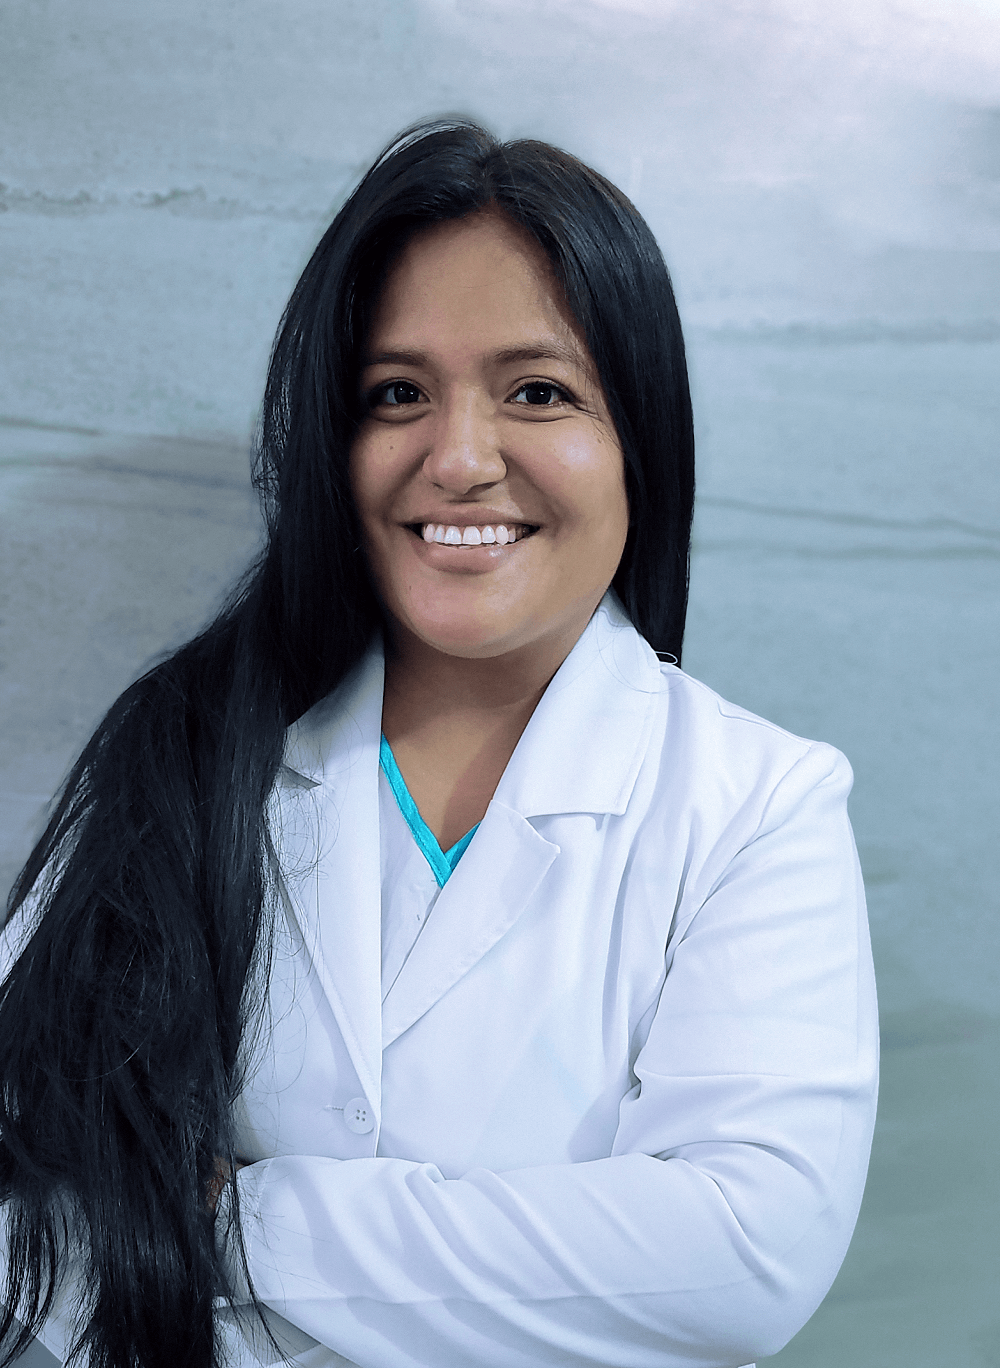
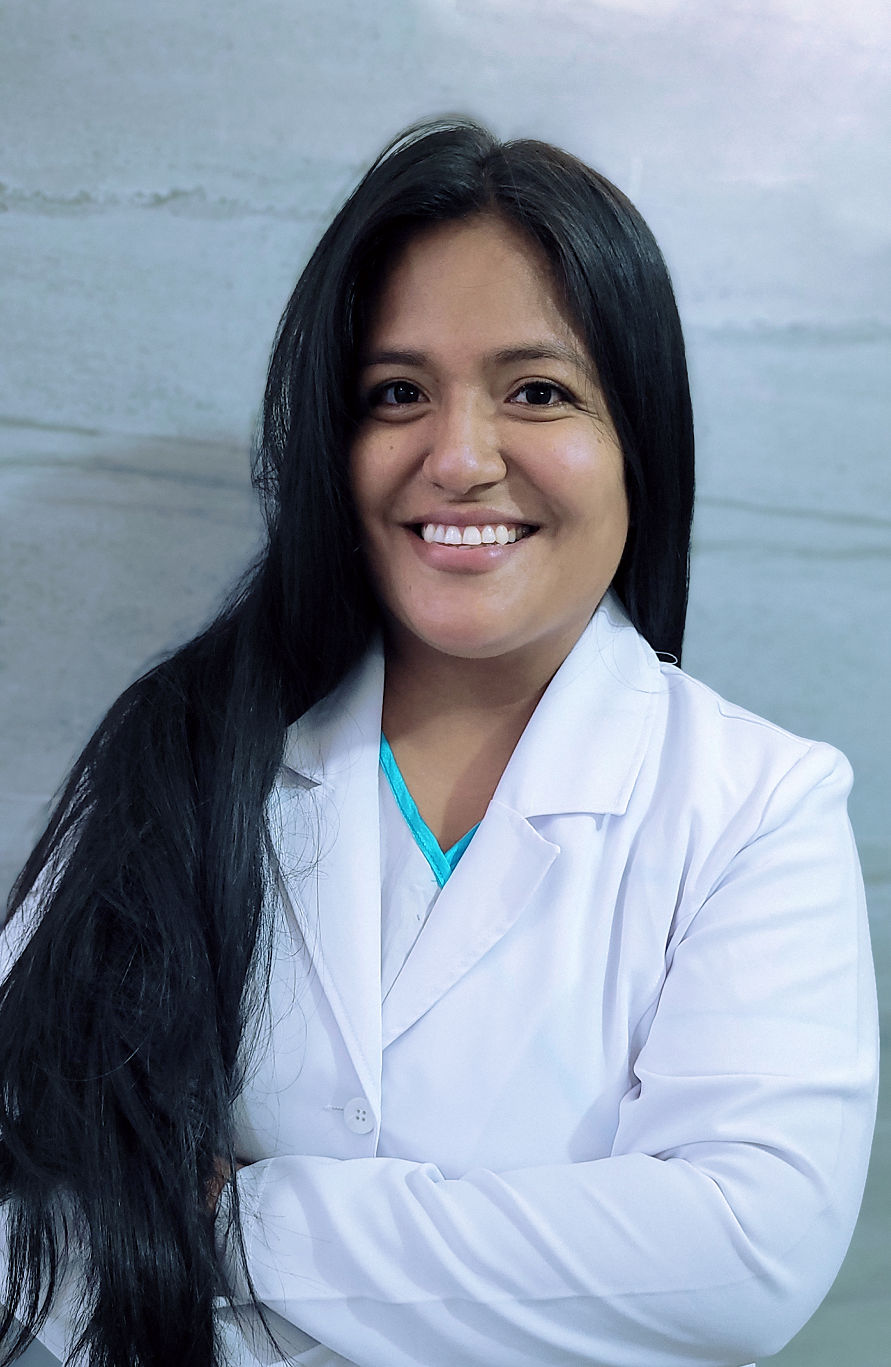
added adaptation to main section

diff --git a/style/style.css b/style/style.css
@@ -1149,3 +1149,123 @@ footer {
     font-size: 26px;
   }
 }
+
+/*Inicia cambio de estilo de scroll bar*/
+::-webkit-scrollbar{
+  background: #d4d4d4;
+  width: 8px;
+height: 8px;
+}
+::-webkit-scrollbar-track {
+background: #e1e1e1;
+border-radius: 4px;
+}
+::-webkit-scrollbar-thumb:hover {
+background: #b3b3b3;
+box-shadow: 0 0 2px 1px rgba(0, 0, 0, 0.2);
+}
+::-webkit-scrollbar-thumb:active {
+background-color: #999999;
+}
+::-webkit-scrollbar-thumb {
+background: #ccc;
+border-radius: 4px;
+}
+/*Finaliza cambio de estilo scroll bar*/
+/*CAROUSEL al contenedor padre se le deja el tamaño del 100%*/
+.carousel-wrapper{
+width:100%;
+height: 100%;
+margin-top: 5%;
+margin-bottom: 5%;
+}
+/*en la clase del carousel se realiza independiente para que ahi pueda agregar el escroll X*/
+.carousel{
+overflow-x:scroll;
+}
+/*el texto ya esta centrado ya que se le dio el ancho del 100% al contenedor padre*/
+.carousel-wrapper p{  
+color: #134A73; 
+font-family:sans-serif;
+font-size:20px;
+text-align:center;   
+margin-top: 3%;
+margin-bottom: 40px;  
+}
+/* se le da el tamaño que se desea para la visulizacion de las imagenes ya que en el contenedor de la clase de carousel es donde estara creado el scroll*/
+.carousel-wrapper .gallery {
+display: flex;
+flex-direction: row;
+width:2500px;
+height: 70vh;
+}
+
+.carousel-wrapper .item {
+flex: 1;
+height: 100%;
+background-position: center;
+background-size: cover;
+background-repeat: none;
+transition: flex 0.8s ease;
+}
+
+.carousel-wrapper .item:hover{
+  flex: 15%;
+}
+
+/*fotos*/
+
+.carousel-wrapper .item-1 { 
+background-image: url('https://i.ibb.co/jWBkx5B/1a.jpg');
+}
+.carousel-wrapper .item-2 { 
+background-image: url('https://i.ibb.co/XVJg8CF/17c.jpg');
+}
+.carousel-wrapper .item-3 { 
+background-image: url('https://i.ibb.co/k8Xqh6V/1C.jpg');
+}
+.carousel-wrapper .item-4 { 
+background-image: url('https://i.ibb.co/JQv0sJm/3a.jpg');
+}
+.carousel-wrapper .item-5 { 
+background-image: url('https://i.ibb.co/Vm7CHcY/655c.jpg');
+}
+.carousel-wrapper .item-6 { 
+background-image: url('https://i.ibb.co/Qdr9HW4/11c.jpg');
+}
+.carousel-wrapper .item-7 { 
+background-image: url('https://i.ibb.co/hg7mHLs/19c.jpg');
+}
+.carousel-wrapper .item-8 { 
+background-image: url('https://i.ibb.co/Zxj8srB/111c.jpg');
+}
+
+.carousel-wrapper .item-9 { 
+background-image: url('https://i.ibb.co/Yt7HhvX/10c.jpg');
+}
+.carousel-wrapper .item-10 { 
+background-image: url('https://i.ibb.co/h7ZHQTc/333c.jpg');
+}
+.carousel-wrapper .item-11 { 
+background-image: url('https://i.ibb.co/dJZ5JW4/18c.jpg');
+}
+.carousel-wrapper .item-12 { 
+background-image: url('https://i.ibb.co/1LM3t5n/5c.jpg');
+}
+/*se agrego el cursos para que sepa que esta en cada imagen*/
+.gallery .item:hover{
+cursor:pointer;
+}
+
+.carousel-wrapper, .container-gallery {
+  padding: 0 !important;
+  margin: 0 !important;
+}
+
+.carousel-wrapper {
+  margin-bottom: 100px !important;
+}
+
+.romy-mobile-main-image {
+  display: none;
+}

diff --git a/index.html b/index.html
@@ -141,10 +141,11 @@
   <section class="mb-5">
     <div class="container-fluid presentation-wrapper">
       <div class="row presentation">
-        <div class="col-5 presentation__image nopadding">
-          <img src="img/romy.png" alt="Doctor image">
+        <div class="col-12 col-lg-5 presentation__image nopadding">
+          <img src="img/romy3.png" class="romy-main-image" alt="Doctor image">
+          <img src="img/romy-main-mobile3.png" class="romy-mobile-main-image" alt="Doctor image">
         </div>
-        <div class="col-7 presentation__content-block">
+        <div class="col-12 col-lg-7 presentation__content-block">
           <div class="presentation__content">
             <h2 class="presentation__position">DentiCare Dental Surgeon</h2>
             <span class="presentation__name">Maria</span>
@@ -595,11 +596,47 @@
           </div>
         </div>
         <div class="col-6 contact-form-image-block">
-          <img src="img/dentist-form.jpg" alt="" class="contact-form__image">
+          <img src="img/romy-form.jpg" alt="" class="contact-form__image">
         </div>
       </div>
     </div>
   </section>
+  
+  <div class="section-indent">
+    <div class="container-fluid container-gallery">
+      <div class="row services-title-block">
+        <h2 class="services-title-block__title">Gallery</h2>
+        <p class="services-title-block__text">We provide dental care to nearly a million patients every year. Listed
+          below are some of the services can provide our patients.</p>
+      </div>
+      <div class="row carousel-wrapper">
+        <div class="carousel-wrapper">
+          <div class="carousel">
+            <div class="gallery">
+              <div class="item item-1"></div>
+              <div class="item item-2"></div>
+              <div class="item item-3"></div>
+              <div class="item item-4"></div>
+              <div class="item item-5"></div>
+              <div class="item item-6"></div>
+              <div class="item item-7"></div>
+              <div class="item item-8"></div>
+              <div class="item item-9"></div>
+              <div class="item item-10"></div>
+              <div class="item item-11"></div>
+              <div class="item item-12"></div>
+          
+            </div>
+               
+           </div>
+          
+          </section>
+          
+          
+      </div>
+    </div>
+    
+  </div>
 
   <section class="section-indent">
     <div class="container">

diff --git a/style/media.css b/style/media.css
@@ -46,4 +46,36 @@
   }
 }
 
-@media screen and (max-device-width:1140px) {}
+@media screen and (max-device-width:1000px) {
+  .presentation__content {
+    margin-top: 100px;
+  }
+}
+
+@media screen and (max-device-width:992px) {
+  .presentation__content {
+    margin-top: 60px;
+    padding-bottom: 25px;
+  }
+  
+  .romy-main-image {
+    display: none;
+  }
+
+  .romy-mobile-main-image {
+    display: block;
+  }
+}
+
+@media screen and (max-device-width:800px) {
+  .presentation__content {
+    max-width: 84%;
+    padding-bottom: 25px;
+  }
+}
+
+@media screen and (max-device-width:400px) {
+  .presentation__signature img {
+    width: 80%;
+  }
+}
